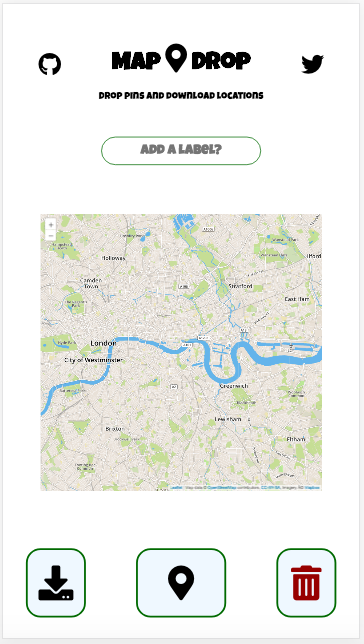
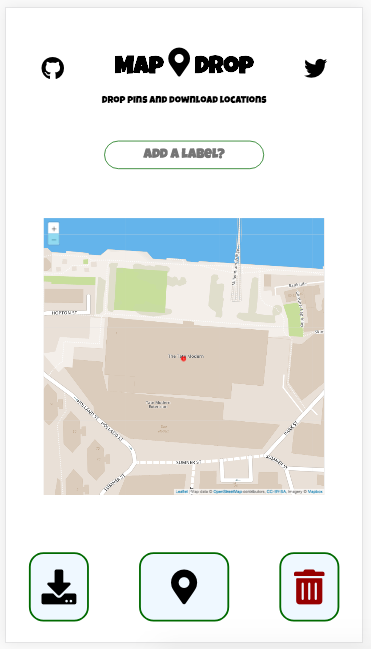
docs(README): Update screenshot and use table for CSV

diff --git a/README.md b/README.md
@@ -12,10 +12,9 @@ MapDrop is a static site and runs entirely client-side - no data is synced anywh
 2. Drop a pin!
 3. Download your pins as a CSV.
 
-```csv
-time,label,lat,long
-2020-01-01T13:37:00.000Z,,78.393507,21.309775
-2020-01-01T13:37:10.000Z,some-place,78.393507,21.309775
-2020-01-01T13:37:20.000Z,other-place,78.393507,21.309775
-2020-01-01T13:37:30.000Z,cool-place,78.393507,21.309775
-```
+| time | label | lat | long |
+| --- | --- | --- | --- |
+|2020-01-01T13:37:00.000Z||78.393507|21.309775|
+|2020-01-01T13:37:10.000Z|some-place|78.393507|21.309775|
+|2020-01-01T13:37:20.000Z|other-place|78.393507|21.309775|
+|2020-01-01T13:37:30.000Z|cool-place|78.393507|21.309775|
